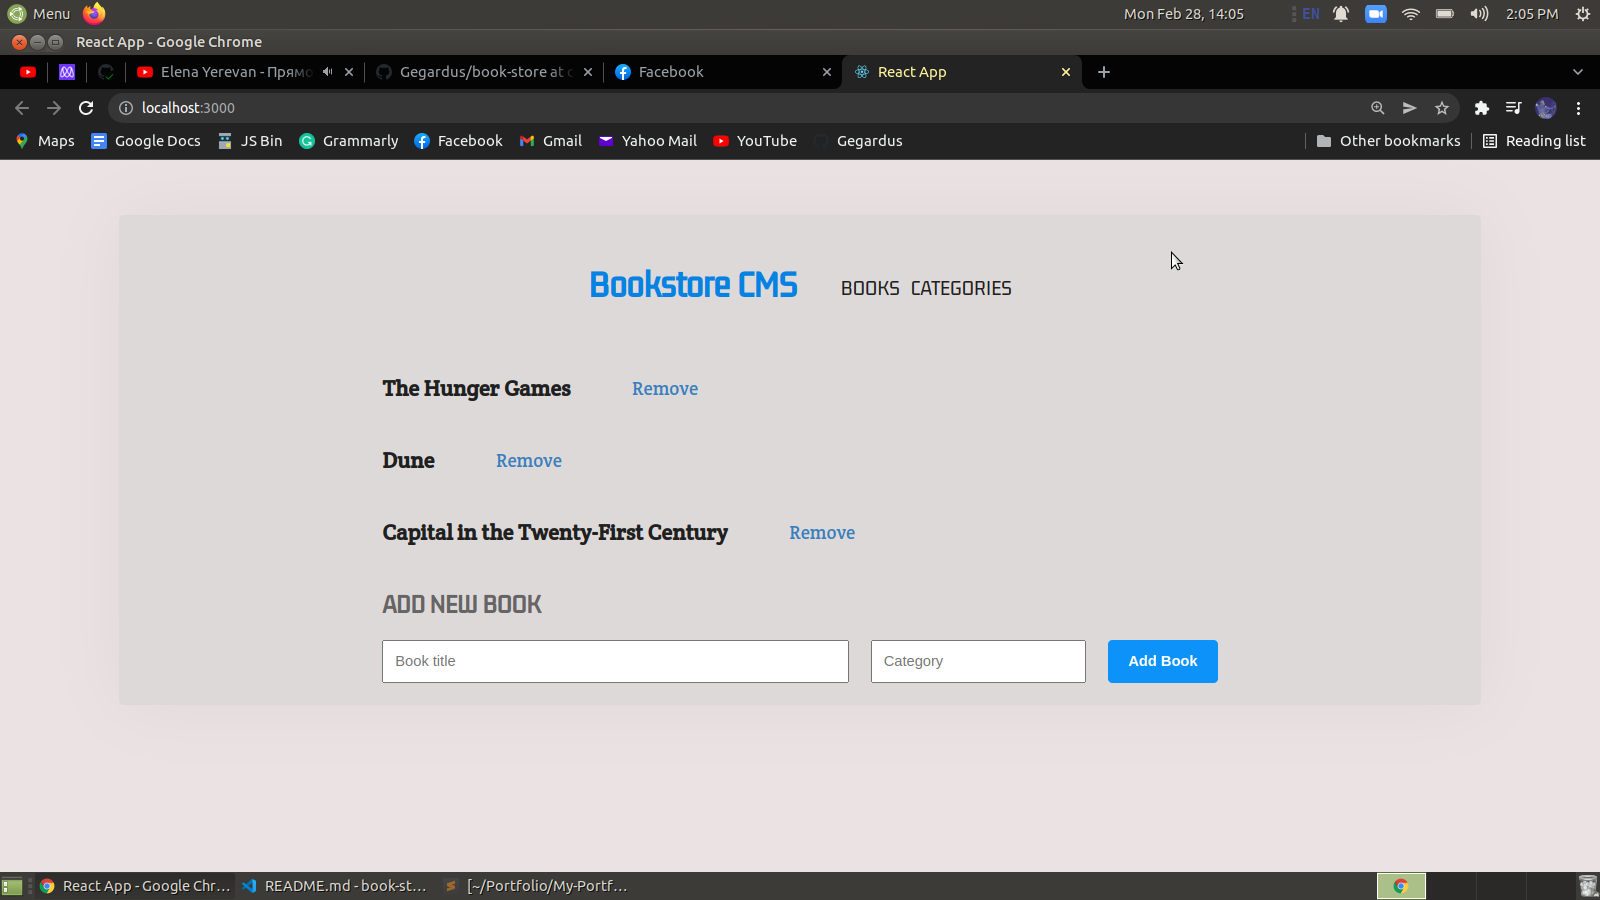
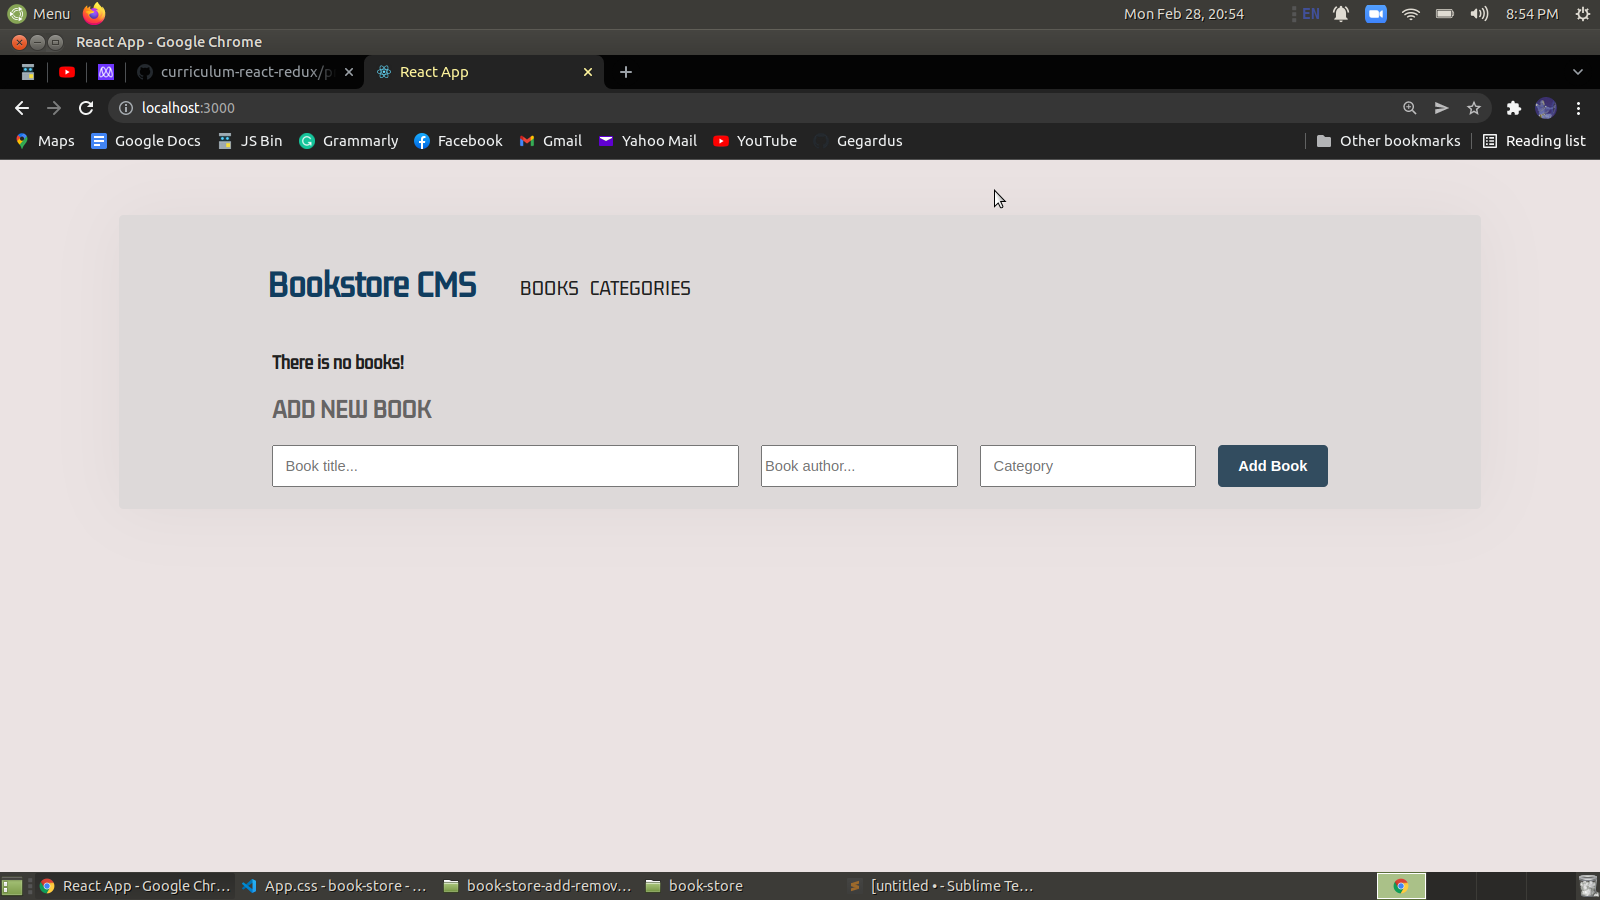
Add store, actions and reducers

diff --git a/src/components/bookComponents/AddForm.js b/src/components/bookComponents/AddForm.js
@@ -1,11 +1,48 @@
-import React from 'react';
+import React, { useState } from 'react';
+import { useDispatch } from 'react-redux';
+import { v4 as uuidv4 } from 'uuid';
+import { addBook } from '../../redux/books/books';
 
-const AddForm = () => (
-  <form className="form">
-    <input className="input-title" type="text" placeholder="Book title" />
-    <input className="input-category" type="text" placeholder="Category" />
-    <button className="add-book-btn" type="submit">Add Book</button>
-  </form>
-);
+const AddForm = () => {
+  const dispatch = useDispatch();
+  const [title, setTitle] = useState('');
+  const [author, setAuthor] = useState('');
+
+  const addBookToStore = (e) => {
+    e.preventDefault();
+    if (title === '' || author === '') return;
+    const newBook = {
+      id: uuidv4(),
+      title,
+      author,
+    };
+
+    dispatch(addBook(newBook));
+    setTitle('');
+    setAuthor('');
+  };
+  return (
+    <form className="form">
+      <input
+        required
+        className="input-title"
+        type="text"
+        placeholder="Book title..."
+        value={title}
+        onChange={(e) => setTitle(e.target.value)}
+      />
+      <input
+        required
+        className="input-author"
+        type="text"
+        placeholder="Book author..."
+        value={author}
+        onChange={(e) => setAuthor(e.target.value)}
+      />
+      <input className="input-category" type="text" placeholder="Category" />
+      <button className="add-book-btn" type="submit" onClick={addBookToStore}>Add Book</button>
+    </form>
+  );
+};
 
 export default AddForm;

diff --git a/src/components/bookComponents/BookItem.js b/src/components/bookComponents/BookItem.js
@@ -1,26 +1,38 @@
 import React from 'react';
 import PropTypes from 'prop-types';
+import { useDispatch } from 'react-redux';
+import { removeBook } from '../../redux/books/books';
 
 const BookItem = (props) => {
   const {
     book: {
-      title,
+      id, title, author,
     },
   } = props;
+  const dispatch = useDispatch();
+  const removeBookFromStore = () => {
+    dispatch(removeBook({ id }));
+  };
   return (
     <div className="book-container">
-      <h3 className="book-title">
-        {title}
+      <div className="title-container">
+        <h3 className="book-title">
+          {title}
+        </h3>
+        <button className="remove-btn" type="button" onClick={removeBookFromStore}>Remove</button>
+      </div>
+      <h3 className="book-author">
+        {author}
       </h3>
-      <button className="remove-btn" type="button">Remove</button>
     </div>
   );
 };
 
 BookItem.propTypes = {
   book: PropTypes.shape({
-    id: PropTypes.number,
+    id: PropTypes.string,
     title: PropTypes.string,
+    author: PropTypes.string,
   }).isRequired,
 };
 

diff --git a/src/App.css b/src/App.css
@@ -19,10 +19,12 @@ body {
 
 .header {
   display: flex;
+  align-self: flex-start;
+  margin-left: 125px;
 }
 
 .title {
-  color: #0582e2;
+  color: #103d5f;
   font-size: 35px;
 }
 
@@ -59,7 +61,7 @@ body {
 
 .add-book-btn {
   width: 100px;
-  background-color: #0c92f8;
+  background-color: #324c5f;
   color: #fff;
   font-weight: bold;
   border: none;
@@ -67,11 +69,11 @@ body {
   cursor: pointer;
 }
 
-.booklist {
+.bookList {
   color: #202020;
 }
 
-.book-container {
+.title-container {
   display: flex;
   gap: 50px;
 }
@@ -79,16 +81,24 @@ body {
 .book-title {
   color: #202020;
   font-family: "Crete Round", sans-serif;
-  font-size: 20px;
+  font-size: 30px;
+  margin: 0;
+  margin-top: 5px;
+}
+
+.book-author {
+  color: #397fbd;
+  font-family: "Crete Round", sans-serif;
+  font-size: 14px;
 }
 
 .remove-btn {
-  color: #397fbd;
+  color: #2c4255;
   border: none;
   background-color: transparent;
   cursor: pointer;
   font-family: "Crete Round", sans-serif;
-  font-size: 17px;
+  font-size: 15px;
 }
 
 .category {

diff --git a/src/components/bookComponents/BookList.js b/src/components/bookComponents/BookList.js
@@ -1,29 +1,18 @@
 import React from 'react';
+import { useSelector } from 'react-redux';
 import BookItem from './BookItem';
 
 const BookList = () => {
-  const books = [
-    {
-      title: 'The Hunger Games',
-      id: 0,
-    },
-    {
-      title: 'Dune',
-      id: 1,
-    },
-    {
-      title: 'Capital in the Twenty-First Century',
-      id: 2,
-    },
-  ];
+  const books = useSelector((state) => state.bookReducer);
   return (
     <div>
-      <h2 className="bookList"> </h2>
-      {
+      {books.length ? (
         books.map((book) => (
           <BookItem book={book} key={book.id} />
         ))
-    }
+      ) : (
+        <h3 className="bookList">There is no books!</h3>
+      )}
     </div>
   );
 };

diff --git a/src/redux/books/books.js b/src/redux/books/books.js
@@ -1,0 +1,27 @@
+const ADD_BOOK = 'bookStore/books/ADD_BOOK';
+const REMOVE_BOOK = 'bookstore/books/REMOVE_BOOK';
+
+const initialState = [];
+
+export const addBook = (payload) => ({
+  type: ADD_BOOK,
+  payload,
+});
+
+export const removeBook = (payload) => ({
+  type: REMOVE_BOOK,
+  payload,
+});
+
+const reducer = (state = initialState, action) => {
+  switch (action.type) {
+    case ADD_BOOK:
+      return [...state, action.payload];
+    case REMOVE_BOOK:
+      return state.filter((book) => book.id !== action.payload.id);
+    default:
+      return state;
+  }
+};
+
+export default reducer;

diff --git a/src/index.js b/src/index.js
@@ -1,13 +1,17 @@
 import React from 'react';
 import ReactDOM from 'react-dom';
 import { BrowserRouter as Router } from 'react-router-dom';
+import { Provider } from 'react-redux';
 import App from './App';
+import store from './redux/configureStore';
 
 ReactDOM.render(
   <React.StrictMode>
-    <Router>
-      <App />
-    </Router>
+    <Provider store={store}>
+      <Router>
+        <App />
+      </Router>
+    </Provider>
   </React.StrictMode>,
   document.getElementById('root'),
 );

diff --git a/src/redux/configureStore.js b/src/redux/configureStore.js
@@ -1,0 +1,13 @@
+import { createStore, combineReducers, applyMiddleware } from 'redux';
+import logger from 'redux-logger';
+import bookReducer from './books/books';
+
+const reducer = combineReducers({
+  bookReducer,
+});
+
+const store = createStore(
+  reducer, applyMiddleware(logger),
+);
+
+export default store;

diff --git a/README.md b/README.md
@@ -2,7 +2,7 @@
 
 # Bookstore
 
-> "Bookstore" project lays the foundations for the Bookstore website. It is created as a React and Redux app and structured as a ducks pattern. This part of the project is also set with routing using React Router.
+> "Bookstore" project lays the foundations for the Bookstore website. It is created as a React and Redux app and structured as a ducks pattern. The project is also set with routing using React Router. In this step was configured Redux Store and written actions and reducer for adding and removing books, as well as added some UI elements to components.
 
 ![screenshot](./src/images/app_screenshot.png)
 
@@ -45,7 +45,7 @@ Feel free to check the [issues page](https://github.com/Gegardus/book-store/issu
 
 ## Acknowledgements
 
-The authors highly appreciate the help in the project from all the participants of this week's program for the timely response to all questions.
+The author highly appreciates the help in the project from all the participants of this week's program for the timely response to all questions.
 
 ## 📝 License
 
